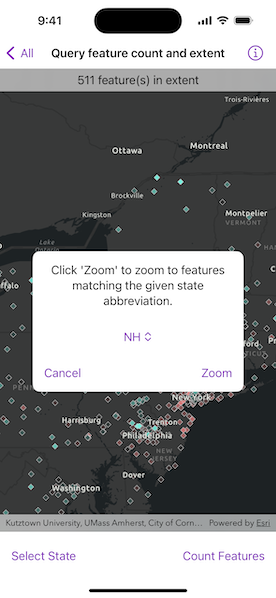
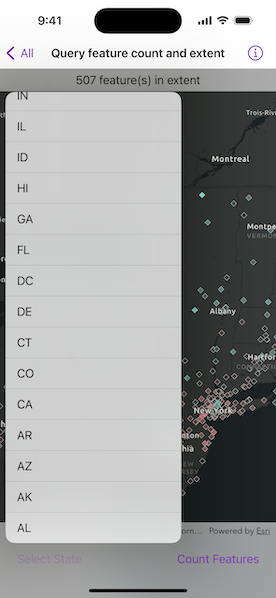
Update source code.

diff --git a/Shared/Samples/Query feature count and extent/QueryFeatureCountAndExtentView.swift b/Shared/Samples/Query feature count and extent/QueryFeatureCountAndExtentView.swift
@@ -18,91 +18,78 @@ import SwiftUI
 struct QueryFeatureCountAndExtentView: View {
     /// The view model for the sample.
     @StateObject private var model = Model()
+    
+    /// A Boolean value indicating whether the feature count bar is showing.
     @State private var showFeatureCountBar = false
-    @State private var showAlert = false
-    @State private var alertMessage = ""
+    
+    /// The error shown in the error alert.
+    @State private var error: Error?
     
     var body: some View {
-        ZStack {
-            VStack {
-                MapViewReader { proxy in
-                    MapView(map: model.map)
-                    // Perform update viewpoint.
-                        .onViewpointChanged(kind: .boundingGeometry) { newViewpoint in
-                            model.viewpoint = newViewpoint
-                        }
-                    // Perform query when the selected state changes.
-                        .onChange(of: model.selectedState) { _ in
-                            Task {
-                                do {
-                                    try await model.performQuery(on: proxy)
-                                } catch {
-                                    alertMessage = "Failed to perform query: \(error.localizedDescription)"
-                                    showAlert = true
-                                }
-                            }
-                        }
-                }
-                
-                Spacer()
-                
-                HStack {
-                    Button("Select State") {
-                        model.showPopup.toggle()
+        VStack {
+            MapViewReader { proxy in
+                MapView(map: model.map)
+                // Perform update viewpoint.
+                    .onViewpointChanged(kind: .boundingGeometry) { newViewpoint in
+                        model.viewpoint = newViewpoint
                     }
-                    
-                    Spacer()
-                    
-                    Button("Count Features") {
-                        // Perform feature count.
+                // Perform query when the selected state changes.
+                    .onChange(of: model.selectedState) { _ in
                         Task {
                             do {
-                                if let viewpoint = model.viewpoint {
-                                    model.featureCountResult = try await model.performCountOnVisibleExtent(
-                                        withinViewpoint: viewpoint
-                                    )
-                                    showFeatureCountBar = true
-                                }
+                                try await model.performQuery(on: proxy)
+                                showFeatureCountBar = false
                             } catch {
-                                alertMessage = "Failed to count features: \(error.localizedDescription)"
-                                showAlert = true
+                                self.error = error
                             }
                         }
                     }
-                }
-                .padding()
             }
-            
-            if showFeatureCountBar {
-                VStack {
-                    if let featureCountResult = model.featureCountResult {
-                        Text("\(featureCountResult) feature(s) in extent")
+        }.overlay {
+            GeometryReader { geometry in
+                if showFeatureCountBar {
+                    VStack {
+                        Text("\(model.featureCountResult) feature(s) in extent")
                             .frame(maxWidth: .infinity)
                             .padding(.vertical, 6)
                             .background(.thinMaterial, ignoresSafeAreaEdges: .horizontal)
                     }
-                    Spacer()
+                    .frame(width: geometry.size.width)
+                    .transition(.move(edge: .top))
                 }
             }
-            
-            if model.showPopup {
-                ZoomAndExtendPopup(
-                    showPopup: $model.showPopup,
-                    selectedState: $model.selectedState,
-                    stateAbbreviations: model.stateAbbreviations
-                )
-                .transition(.opacity)
-                .zIndex(1)
-                .frame(width: 300, height: 200)
+        }
+        .toolbar {
+            ToolbarItemGroup(placement: .bottomBar) {
+                // Menu to select a state.
+                Menu {
+                    ForEach(model.stateAbbreviations, id: \.self) { abbreviation in
+                        Button {
+                            model.selectedState = abbreviation
+                        } label: {
+                            Text(abbreviation)
+                        }
+                    }
+                } label: {
+                    Text("Select State")
+                }
+                
+                // Button to count features within the visible extent.
+                Button("Count Features") {
+                    Task {
+                        do {
+                            if let viewpoint = model.viewpoint {
+                                try await model.performCountOnVisibleExtent(withinViewpoint: viewpoint)
+                                showFeatureCountBar = true
+                            }
+                        } catch {
+                            self.error = error
+                        }
+                    }
+                }
             }
         }
-        .alert(isPresented: $showAlert) {
-            Alert(
-                title: Text("Error"),
-                message: Text(alertMessage),
-                dismissButton: .default(Text("OK"))
-            )
-        }
+        .errorAlert(presentingError: $error)
     }
 }
 
@@ -120,19 +107,22 @@ private extension QueryFeatureCountAndExtentView {
             return map
         }()
         
-        /// A boolean value that determines if the popup is shown.
-        @Published var showPopup = false
-        
-        /// The current state abbreviation selected in the popup.
+        /// The currently selected state abbreviation.
         @Published var selectedState: String?
         
         /// The count of features within the current viewpoint.
-        @Published var featureCountResult: Int?
+        @Published var featureCountResult: Int = 0
         
         /// The current viewpoint of the map.
         @Published var viewpoint: Viewpoint?
         
-        /// List of state abbreviations for use in select states.
+        /// The layer that displays features on the map.
+        private let featureLayer: FeatureLayer
+        
+        /// The table for querying features from a server.
+        private let featureTable: ServiceFeatureTable
+        
+        /// The list of state abbreviations for selection.
         let stateAbbreviations: [String] = [
             "AL", "AK", "AZ", "AR", "CA", "CO", "CT", "DE", "DC", "FL", "GA", "HI",
             "ID", "IL", "IN", "IA", "KS", "KY", "LA", "ME", "MD", "MA", "MI", "MN",
@@ -140,9 +130,6 @@ private extension QueryFeatureCountAndExtentView {
             "OK", "OR", "PA", "RI", "SC", "SD", "TN", "TX", "UT", "VT", "VA", "WA",
             "WV", "WI", "WY"
         ]
-        
-        private let featureLayer: FeatureLayer
-        private let featureTable: ServiceFeatureTable
         
         init() {
             featureTable = ServiceFeatureTable(url: .medicareHospitalSpendLayer)
@@ -172,66 +159,22 @@ private extension QueryFeatureCountAndExtentView {
         }
         
         /// Counts the number of features within the specified viewpoint extent.
-        /// - Parameter withinViewpoint: The viewpoint defining the extent to query
+        /// - Parameter withinViewpoint: The viewpoint defining the extent to query.
         /// - Returns: The count of features within the specified extent.
         /// - Throws: An error if the count operation fails.
-        func performCountOnVisibleExtent(withinViewpoint: Viewpoint?) async throws -> Int {
+        func performCountOnVisibleExtent(withinViewpoint: Viewpoint?) async throws {
             let queryParameters = QueryParameters()
             queryParameters.geometry = withinViewpoint?.targetGeometry
             queryParameters.spatialRelationship = .intersects
-            let count = try await featureLayer.featureTable!.queryFeatureCount(
+            featureCountResult = try await featureLayer.featureTable!.queryFeatureCount(
                 using: queryParameters
             )
-            return count
-        }
-    }
-}
-
-/// A view that provides a popup for selecting a state and zooming to features.
-struct ZoomAndExtendPopup: View {
-    @Binding var showPopup: Bool
-    @Binding var selectedState: String?
-    @State private var tempSelectedState: String = "AL"
-    let stateAbbreviations: [String]
-    
-    var body: some View {
-        GeometryReader { geometry in
-            VStack {
-                Text("Click 'Zoom' to zoom to features matching the given state abbreviation.")
-                    .multilineTextAlignment(.center)
-                    .padding()
-                
-                Picker("Select State", selection: $tempSelectedState) {
-                    ForEach(stateAbbreviations, id: \.self) { abbreviation in
-                        Text(abbreviation).tag(abbreviation as String?)
-                    }
-                }
-                .pickerStyle(MenuPickerStyle())
-                
-                HStack {
-                    Button("Cancel") {
-                        showPopup = false
-                    }
-                    
-                    Spacer()
-                    
-                    Button("Zoom") {
-                        selectedState = tempSelectedState
-                        showPopup = false
-                    }
-                }
-                .padding()
-            }
-            .frame(width: 300, height: 200)
-            .background(Color.white)
-            .cornerRadius(10)
-            .position(x: geometry.size.width / 2, y: geometry.size.height / 2)
         }
     }
 }
 
 private extension URL {
-    /// URL for the Medicare Hospital Spending layer service.
+    /// The URL for the Medicare Hospital Spending layer service.
     static var medicareHospitalSpendLayer: URL {
         URL(string: "https://services1.arcgis.com/4yjifSiIG17X0gW4/arcgis/rest/services/Medicare_Hospital_Spending_per_Patient/FeatureServer/0")!
     }
